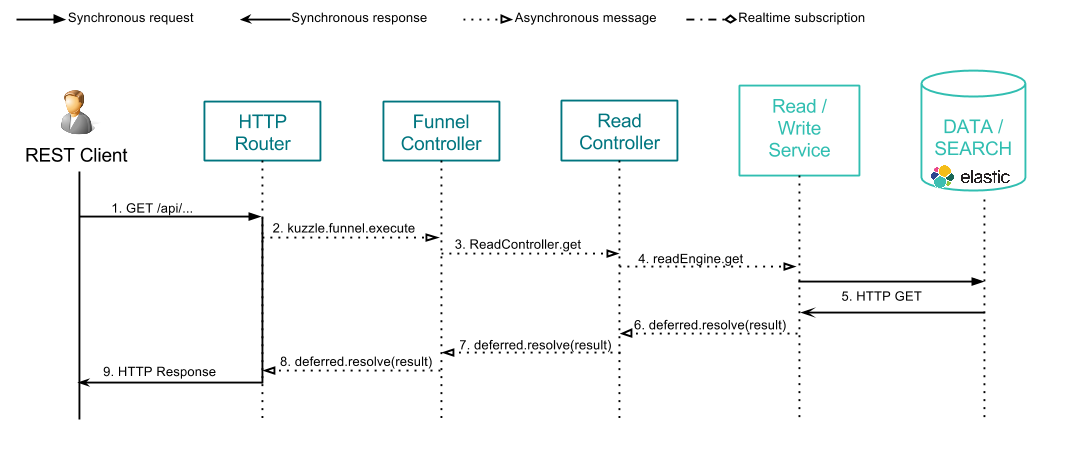
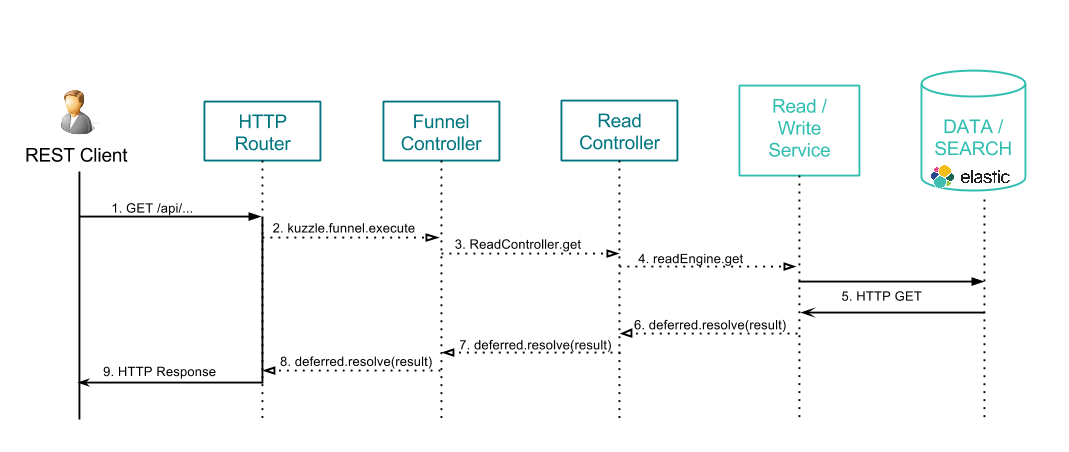
Remove mentions of synchrounous/asynchronous exchanges to avoid confusions.

diff --git a/docs/request_scenarios/read_http.md b/docs/request_scenarios/read_http.md
@@ -34,7 +34,7 @@ Sample message:
 
 \#4. The Read Controller calls the readEngine service
 
-\#5. The readEngine service makes a synchronous HTTP Rest request to get the data from the data storage
+\#5. The readEngine service makes a HTTP Rest request to get the data from the data storage
 
 Sample content retrieve from Elasticsearch:
 

diff --git a/docs/request_scenarios/read_mq.md b/docs/request_scenarios/read_mq.md
@@ -49,7 +49,7 @@ Sample message:
 
 \#4. The Read Controller calls the readEngine service
 
-\#5. The readEngine service makes a synchronous HTTP Rest request to get the data from the data storage
+\#5. The readEngine service makes a HTTP Rest request to get the data from the data storage
 
 Sample content retrieve from Elasticsearch:
 

diff --git a/docs/request_scenarios/read_websocket.md b/docs/request_scenarios/read_websocket.md
@@ -53,7 +53,7 @@ Sample message:
 
 \#4. The Read Controller calls the readEngine service
 
-\#5. The readEngine service makes a synchronous HTTP Rest request to get the data from the data storage
+\#5. The readEngine service makes a HTTP Rest request to get the data from the data storage
 
 Sample content retrieve from Elasticsearch:
 
